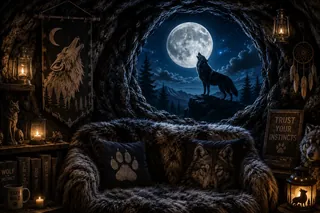
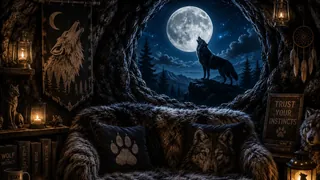
docs(images): add Worlds preview gallery and uniform cover-fit thumbnails
- images/README.md: switch the thumbnail recipe to a 320x180 center-cropped
  cover-fit so non-16:9 plates and captured composites tile at one shape
- README.md: add a Worlds gallery for the six composites that have thumbnails
- add the six Worlds thumbnails; regenerate wolf-cave's under the new recipe

diff --git a/images/README.md b/images/README.md
@@ -102,22 +102,25 @@ downscaled `<name>.thumb.webp` next to the plate.
 
 Target:
 
-- **Resolution:** 320px on the long edge, preserving the plate's aspect, so a 16:9
-  plate is **320x180** (exactly quarter-resolution). Crisp to ~160px at 2x DPR; a
-  picker tile never needs more.
+- **Resolution:** **320x180** (16:9), center-cropped to fill. Uniform across every
+  thumbnail so picker tiles are one shape regardless of the source's aspect (the
+  plates themselves vary: 16:9 backgrounds, 3:2 composites). Crisp to ~160px at 2x
+  DPR; a picker tile never needs more.
 - **Format:** lossy WebP at ~q80 (a tile tolerates more compression than a
-  full-frame background), `method=6`. No crop: a pure downscale so the thumbnail
-  matches the plate's framing.
+  full-frame background), `method=6`.
+- **Crop:** center-cropped cover-fit (`-extent`), not a letterboxed fit, so the
+  tile is filled. A non-16:9 source loses a little off the long edge.
 - **Naming:** `<name>.thumb.webp`, in the same `images/<name>/` folder as the plate.
 
-Recipe (from the plate webp; fits the 320 box, preserves aspect):
+Recipe (cover-fit to 320x180, center-cropped):
 
 ```sh
-convert <name>.webp -resize 320x320 -quality 80 -define webp:method=6 <name>.thumb.webp
+convert <source> -resize "320x180^" -gravity center -extent 320x180 \
+  -quality 80 -define webp:method=6 <name>.thumb.webp
 ```
 
-A screenshot you are turning into a thumbnail (a captured "world" or sky) takes the
-same recipe; feed the source image in place of `<name>.webp`.
+A screenshot you are turning into a thumbnail (a captured "world" or "sky") takes
+the same recipe; feed the source image in place of `<source>`.
 
 ## Adding a plate
 

diff --git a/README.md b/README.md
@@ -211,6 +211,18 @@ import { registerKaleidoscopeNativeWind } from 'react-native-webrtc-kaleidoscope
 registerKaleidoscopeNativeWind();
 ```
 
+## Worlds
+
+Packaged composites: multi-layer scenes (a generative shader or a cut-out plate, the masked person on top), imported and spread into your book (e.g. `import { wizardTower } from 'react-native-webrtc-kaleidoscope/composites/wizard-tower'`). They carry their own `category: 'Worlds'`, so the picker groups them on one tab.
+
+| Wizard Tower | Observation Deck | Fairy Cave |
+|---|---|---|
+| <img src="images/wizards-tower/wizards-tower.thumb.webp" width="220" alt="wizard-tower" /> | <img src="images/observation-deck/observation-deck.thumb.webp" width="220" alt="observation-deck" /> | <img src="images/fairy-treehouse/fairy-treehouse.thumb.webp" width="220" alt="fairy-cave" /> |
+| Underwater | Nebula | Simianlights |
+| <img src="images/underwater/underwater.thumb.webp" width="220" alt="underwater" /> | <img src="images/nebula/nebula.thumb.webp" width="220" alt="nebula" /> | <img src="images/simianlights/simianlights.thumb.webp" width="220" alt="simianlights" /> |
+
+The `corporate-blobs` (Worlds) and `clouds` (Sky) composites also ship; their preview tiles are pending.
+
 ## Background presets
 
 Ten backgrounds ship as `image` layers, imported per preset (e.g. `import { darkOffice } from 'react-native-webrtc-kaleidoscope/images/dark-office'`). On web a preset can also be any image URL or data URI; native resolves bundled preset names only.